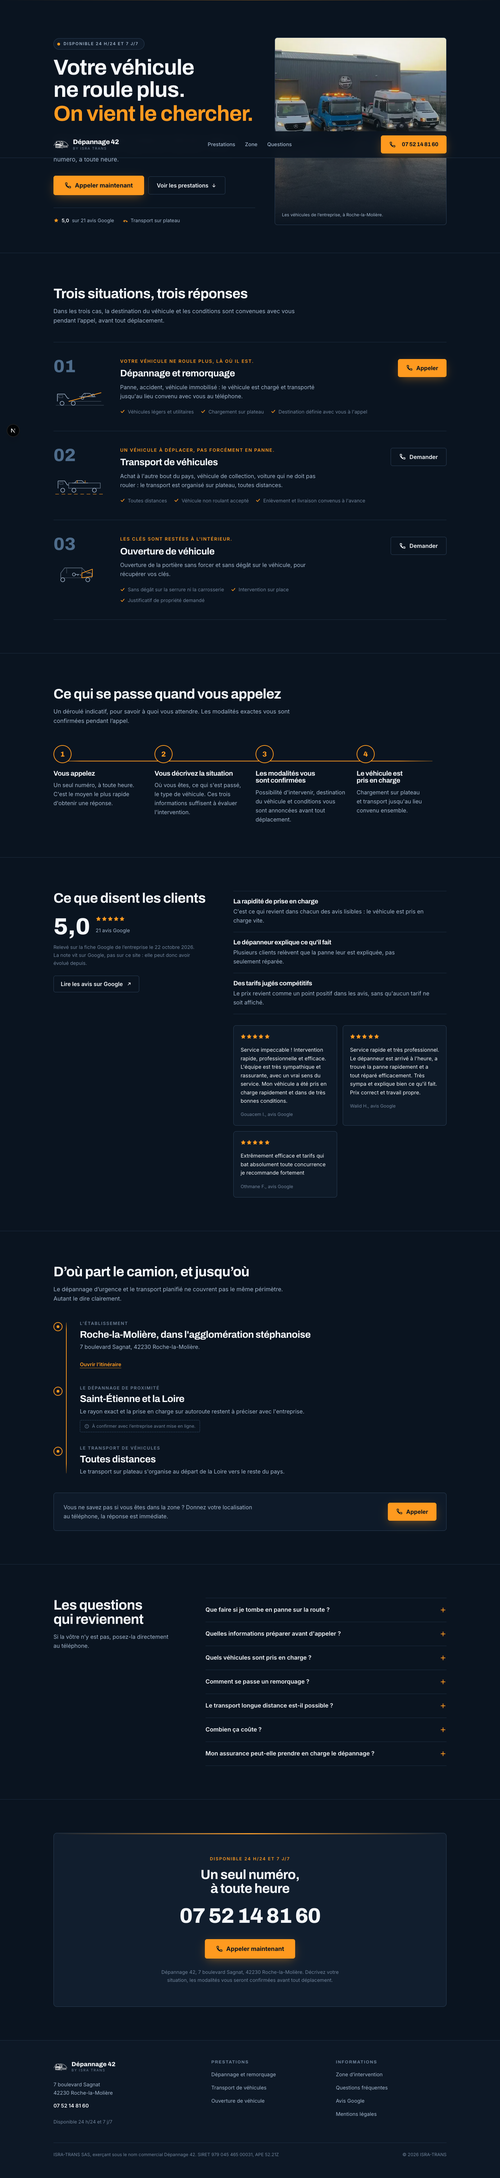
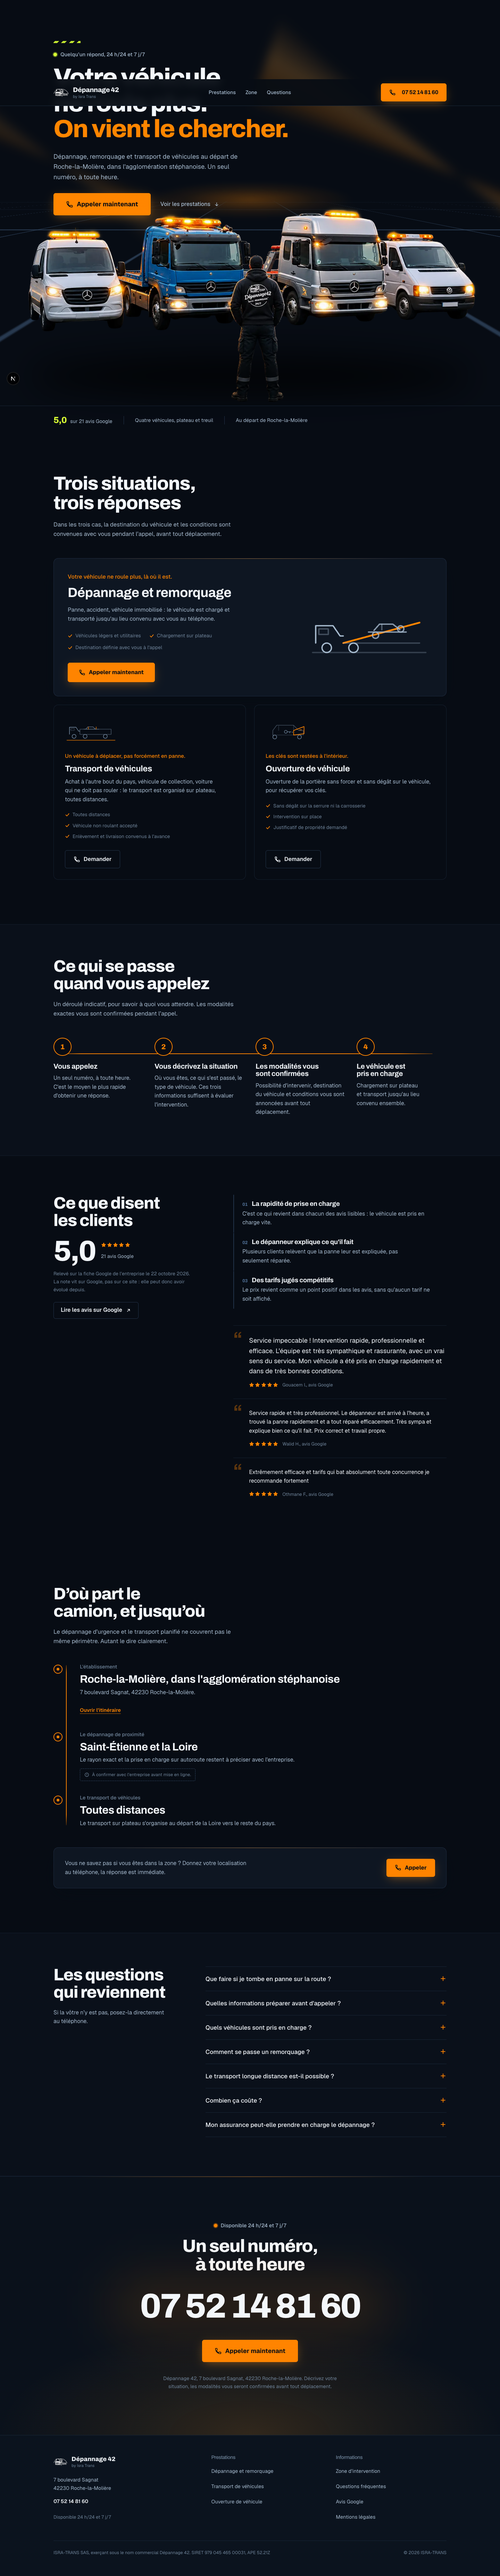
Mise en scène au scroll : jauge, tracés progressifs, marqueurs
- Jauge de progression en haut de page, dessinée comme un marquage routier
  en jaune haute visibilité, pilotée sur requestAnimationFrame
- Les illustrations des prestations se tracent trait par trait à l'entrée
  dans l'écran. Chaque tracé mesure sa propre longueur en JavaScript, une
  valeur en dur se désynchroniserait au premier redessin
- Marqueur rayé en tête de chaque section : le fil conducteur graphique du
  site, cinq pixels plutôt qu'un bandeau coloré
- Le principe d'inversion du risque s'applique aussi aux tracés : dessin
  complet par défaut, effacé seulement si le JavaScript peut le retracer
- Mouvement réduit et impression lèvent tous les masquages

Vérifié : jauge 0 -> 0,40 -> 1 au scroll, 32 tracés et 26 blocs révélés,
aucune erreur console, aucun débordement horizontal.

diff --git a/src/components/Revelations.tsx b/src/components/Revelations.tsx
@@ -3,93 +3,134 @@
 import { useEffect } from "react";
 
 /**
- * Révélations au scroll, et tracé de la trajectoire.
+ * Mise en scène au scroll : révélations, tracés, et jauge de progression.
  *
- * PRINCIPE : le risque est inversé. Tout est visible par défaut dans le CSS ;
- * un élément n'est masqué que par l'attribut `data-cache`, posé en JavaScript
- * juste avant d'être observé, et retiré dès qu'il entre à l'écran. Si le
- * JavaScript échoue, si l'observateur ne se déclenche jamais, ou si
- * l'internaute demande un mouvement réduit, rien ne disparaît.
+ * PRINCIPE, valable pour tout ce fichier : le risque est inversé. Tout est
+ * visible par défaut dans le CSS ; un élément n'est masqué que par l'attribut
+ * `data-cache`, posé en JavaScript juste avant d'être observé, et retiré dès
+ * qu'il entre à l'écran. Si le JavaScript échoue, si l'observateur ne se
+ * déclenche jamais, ou si l'internaute demande un mouvement réduit, rien ne
+ * disparaît.
  *
- * Une première version faisait l'inverse : masquer en CSS, révéler avec
- * `ScrollTrigger.batch`. Les 22 blocs de la page sont restés invisibles, y
- * compris ceux déjà présents à l'écran. Une mise en scène capable d'effacer la
- * page n'a pas sa place sur un site dont le seul rôle est de permettre à
- * quelqu'un en panne de passer un appel.
+ * Une première version faisait l'inverse : masquer en CSS, révéler ensuite.
+ * Les 22 blocs de la page sont restés invisibles, y compris ceux déjà
+ * présents à l'écran. Une mise en scène capable d'effacer la page n'a pas sa
+ * place sur un site dont le seul rôle est de permettre à quelqu'un en panne
+ * de passer un appel.
  *
- * Aucune bibliothèque : un observateur d'intersection et des transitions CSS
- * suffisent. GSAP coûtait une septantaine de kilo-octets compressés pour ce
- * seul usage.
+ * Aucune bibliothèque : un observateur d'intersection, un écouteur de scroll
+ * sur rAF, et des transitions CSS. GSAP coûtait une septantaine de kilo-octets
+ * compressés pour ce seul usage.
  */
-/**
- * Au bout de ce délai, tout est révélé quoi qu'il arrive.
- *
- * Le filet ne fait jamais que RENDRE VISIBLE : l'allonger ne présente donc
- * aucun risque, et le raccourcir écrase l'effet. À 2,5 s, seules les deux
- * premières sections avaient le temps d'être révélées au scroll, le reste
- * apparaissait d'un bloc. Six secondes laissent le temps d'une lecture
- * normale tout en garantissant qu'aucun contenu ne reste perdu.
- */
+
+/** Au bout de ce délai, tout est révélé quoi qu'il arrive. Le filet ne fait
+ *  jamais que RENDRE VISIBLE : l'allonger ne présente aucun risque, le
+ *  raccourcir écrase l'effet. */
 const DELAI_SECURITE_MS = 6000;
 
 export function Revelations() {
   useEffect(() => {
     if (!document.documentElement.classList.contains("js-anime")) return;
-    if (!("IntersectionObserver" in window)) return;
 
-    const blocs = Array.from(document.querySelectorAll<HTMLElement>(".revele"));
+    /* ------------------------------------------------------------------
+       1. Jauge de progression : la route parcourue, en haut de page.
+    ------------------------------------------------------------------ */
+    const jauge = document.querySelector<HTMLElement>(".jauge");
+    let enAttente = false;
 
-    // La trajectoire doit connaître sa propre longueur pour être tracée
-    // progressivement. On la mesure ici plutôt que d'inscrire une valeur
-    // approximative dans le CSS.
+    const majProgression = () => {
+      if (enAttente) return;
+      enAttente = true;
+      requestAnimationFrame(() => {
+        enAttente = false;
+        if (!jauge) return;
+        const parcourable =
+          document.documentElement.scrollHeight - window.innerHeight;
+        const p = parcourable > 0 ? window.scrollY / parcourable : 0;
+        jauge.style.setProperty("--progression", String(Math.min(1, p)));
+      });
+    };
+
+    majProgression();
+    window.addEventListener("scroll", majProgression, { passive: true });
+    window.addEventListener("resize", majProgression, { passive: true });
+
+    /* ------------------------------------------------------------------
+       2. Mesure des tracés. Chaque trait doit connaître sa propre longueur
+          pour pouvoir se dessiner ; une valeur en dur se désynchroniserait
+          au premier redessin.
+    ------------------------------------------------------------------ */
+    type Traçable = SVGPathElement | SVGCircleElement | SVGRectElement;
+
     const traces = Array.from(
-      document.querySelectorAll<SVGPathElement>(".trajectoire path"),
-    );
-    traces.forEach((p) => {
-      const longueur = p.getTotalLength();
-      p.style.setProperty("--longueur", String(longueur));
-      p.style.strokeDasharray = String(longueur);
+      document.querySelectorAll<Traçable>(
+        ".trajectoire path, .dessin path, .dessin circle, .dessin rect",
+      ),
+    ).filter((t) => typeof t.getTotalLength === "function");
+
+    traces.forEach((t, i) => {
+      let longueur = 0;
+      try {
+        longueur = t.getTotalLength();
+      } catch {
+        return; // Élément non rendu (display:none) : on le laisse intact.
+      }
+      if (!longueur) return;
+      t.style.setProperty("--longueur", String(longueur));
+      t.style.strokeDasharray = String(longueur);
+      // Décalage par trait : le dessin se construit, il n'apparaît pas d'un bloc.
+      t.style.transitionDelay = `${(i % 14) * 55}ms`;
     });
 
-    const aReveler = [...blocs, ...traces];
+    /* ------------------------------------------------------------------
+       3. Révélations et tracés, pilotés par l'observateur d'intersection.
+    ------------------------------------------------------------------ */
+    const blocs = Array.from(document.querySelectorAll<HTMLElement>(".revele"));
+    const aReveler: Element[] = [...blocs, ...traces];
 
-    /** Filet de sécurité : quoi qu'il arrive, tout est révélé au bout du délai. */
     const toutReveler = () =>
       aReveler.forEach((e) => e.removeAttribute("data-cache"));
     const filet = window.setTimeout(toutReveler, DELAI_SECURITE_MS);
 
-    const observateur = new IntersectionObserver(
-      (entrees) => {
-        entrees.forEach((e) => {
-          if (!e.isIntersecting) return;
-          e.target.removeAttribute("data-cache");
-          observateur.unobserve(e.target);
-        });
-      },
-      { rootMargin: "0px 0px -12% 0px", threshold: 0.01 },
-    );
+    let observateur: IntersectionObserver | undefined;
 
-    aReveler.forEach((element, i) => {
-      const rect = element.getBoundingClientRect();
-      const dejaVisible = rect.top < window.innerHeight * 0.95;
+    if ("IntersectionObserver" in window) {
+      observateur = new IntersectionObserver(
+        (entrees) => {
+          entrees.forEach((e) => {
+            if (!e.isIntersecting) return;
+            e.target.removeAttribute("data-cache");
+            observateur?.unobserve(e.target);
+          });
+        },
+        { rootMargin: "0px 0px -12% 0px", threshold: 0.01 },
+      );
 
-      element.setAttribute("data-cache", "1");
+      aReveler.forEach((element, i) => {
+        const rect = element.getBoundingClientRect();
+        const dejaVisible = rect.top < window.innerHeight * 0.95;
 
-      if (dejaVisible) {
-        // Déjà à l'écran au chargement : on révèle tout de suite, en décalant
-        // légèrement pour que la page se pose au lieu d'apparaître d'un bloc.
-        window.setTimeout(
-          () => element.removeAttribute("data-cache"),
-          60 + i * 70,
-        );
-      } else {
-        observateur.observe(element);
-      }
-    });
+        element.setAttribute("data-cache", "1");
+
+        if (dejaVisible) {
+          window.setTimeout(
+            () => element.removeAttribute("data-cache"),
+            60 + i * 60,
+          );
+        } else {
+          observateur!.observe(element);
+        }
+      });
+    } else {
+      // Sans observateur, on ne masque rien du tout.
+      toutReveler();
+    }
 
     return () => {
       window.clearTimeout(filet);
-      observateur.disconnect();
+      observateur?.disconnect();
+      window.removeEventListener("scroll", majProgression);
+      window.removeEventListener("resize", majProgression);
     };
   }, []);
 

diff --git a/src/app/globals.css b/src/app/globals.css
@@ -445,6 +445,70 @@ html.consent-decide .bandeau-consentement {
 }
 
 /* ==========================================================================
+   JAUGE DE PROGRESSION
+   Une bande de marquage routier en haut de page, qui se remplit à mesure que
+   l'on descend. Thématique plutôt que décorative : c'est la route parcourue.
+   Pilotée par une propriété personnalisée mise à jour au scroll.
+   ========================================================================== */
+
+.jauge {
+  position: fixed;
+  inset: 0 0 auto 0;
+  z-index: 45;
+  height: 3px;
+  pointer-events: none;
+  background: linear-gradient(
+    to right,
+    var(--color-hivis) 0%,
+    var(--color-hivis) calc(var(--progression, 0) * 100%),
+    transparent calc(var(--progression, 0) * 100%)
+  );
+}
+
+/* ==========================================================================
+   DESSINS TRACÉS AU SCROLL
+   Les illustrations des prestations se dessinent quand elles entrent dans
+   l'écran, trait après trait. Chaque tracé calcule sa propre longueur en
+   JavaScript ; sans cela il faudrait inscrire des valeurs magiques dans le
+   CSS, qui se désynchroniseraient au premier redessin.
+
+   Comme partout sur ce site, le risque est inversé : le dessin est complet par
+   défaut, et n'est effacé que si le JavaScript a confirmé qu'il peut le
+   retracer.
+   ========================================================================== */
+
+.dessin path,
+.dessin circle,
+.dessin rect {
+  transition:
+    stroke-dashoffset 1.1s var(--ease-sortie),
+    opacity 0.5s var(--ease-sortie);
+}
+
+.dessin [data-cache] {
+  stroke-dashoffset: var(--longueur, 400);
+  opacity: 0.25;
+}
+
+/* ==========================================================================
+   MARQUEUR DE SECTION
+   Le filet rayé des véhicules d'intervention, repris en tête de chaque
+   section. C'est le fil conducteur graphique du site : trois pixels suffisent
+   à signer une page, là où un bandeau coloré la surchargerait.
+   ========================================================================== */
+
+.marqueur {
+  display: block;
+  height: 5px;
+  width: 64px;
+  background-image: repeating-linear-gradient(
+    -45deg,
+    var(--color-hivis) 0 7px,
+    transparent 7px 14px
+  );
+}
+
+/* ==========================================================================
    TYPOGRAPHIE CINÉTIQUE
    Les mots du titre montent un par un depuis sous la ligne. L'effet est porté
    par un délai inline sur chaque mot, donc il reste entièrement en CSS.
@@ -596,8 +660,22 @@ html.consent-decide .bandeau-consentement {
   .hero-ligne,
   .hero-apparition,
   .hero-panneau,
-  .hero-balayage {
+  .hero-balayage,
+  .route,
+  .gyrophare,
+  .mot {
     animation: none !important;
+  }
+
+  .mot,
+  .dessin [data-cache] {
+    transform: none !important;
+    opacity: 1 !important;
+    stroke-dashoffset: 0 !important;
+  }
+
+  .jauge {
+    display: none !important;
   }
 
   /* La barre d'appel collante et le bandeau de consentement n'ont aucun sens
@@ -637,6 +715,11 @@ html.consent-decide .bandeau-consentement {
   .gyrophare,
   .mot {
     animation: none !important;
+  }
+
+  .dessin [data-cache] {
+    stroke-dashoffset: 0 !important;
+    opacity: 1 !important;
   }
 
   .mot {

diff --git a/src/components/Services.tsx b/src/components/Services.tsx
@@ -36,7 +36,7 @@ const traits = {
 const illustrations = {
   /* Le plateau basculé, la voiture en panne qui monte dessus par le treuil. */
   depannage: (
-    <svg aria-hidden="true" viewBox="0 0 160 84" {...traits}>
+    <svg aria-hidden="true" viewBox="0 0 160 84" className="dessin" {...traits}>
       {/* Camion : cabine et châssis */}
       <path d="M12 62V40h22l9 13h4" />
       <path d="M12 40h22" opacity=".45" />
@@ -59,7 +59,7 @@ const illustrations = {
 
   /* Le transport planifié : le véhicule arrimé, et la distance parcourue. */
   transport: (
-    <svg aria-hidden="true" viewBox="0 0 160 84" {...traits}>
+    <svg aria-hidden="true" viewBox="0 0 160 84" className="dessin" {...traits}>
       {/* Camion porte-voiture, vu de profil */}
       <path d="M14 56V34h20l8 12h4" />
       <path d="M18 38h11v6H18z" opacity=".35" />
@@ -84,7 +84,7 @@ const illustrations = {
 
   /* L'ouverture : la portière entrouverte et les clés restées sur le siège. */
   ouverture: (
-    <svg aria-hidden="true" viewBox="0 0 160 84" {...traits}>
+    <svg aria-hidden="true" viewBox="0 0 160 84" className="dessin" {...traits}>
       {/* Silhouette du véhicule, vue de trois quarts */}
       <path d="M22 58V44l12-16h52l16 16h14v14" opacity=".55" />
       <path d="M22 58h94" opacity=".3" />
@@ -130,6 +130,7 @@ export function Services() {
     >
       <div className="relative z-10 mx-auto max-w-[1180px] px-4 md:px-6">
         <div className="revele mesure-large">
+          <span aria-hidden="true" className="marqueur mb-7" />
           <h2 className="text-[2.3rem] sm:text-[3rem] lg:text-[3.4rem]">
             Trois situations,
             <br className="hidden sm:block" /> trois réponses

diff --git a/src/components/Parcours.tsx b/src/components/Parcours.tsx
@@ -20,6 +20,7 @@ export function Parcours() {
     <section className="relative overflow-hidden border-y border-trait/40 bg-acier/25 pt-20 pb-24 md:pt-24 md:pb-28">
       <div className="mx-auto max-w-[1180px] px-4 md:px-6">
         <div className="revele mesure-large">
+          <span aria-hidden="true" className="marqueur mb-7" />
           <h2 className="text-[2.3rem] sm:text-[3rem]">
             Ce qui se passe quand vous appelez
           </h2>

diff --git a/src/components/Faq.tsx b/src/components/Faq.tsx
@@ -27,6 +27,7 @@ export function Faq() {
           {/* Solidaire du scroll, comme la note dans la section des avis :
               sinon la colonne laisse un grand vide pendant la lecture. */}
           <div className="revele lg:sticky lg:top-28 lg:self-start">
+            <span aria-hidden="true" className="marqueur mb-7" />
             <h2 className="text-[2.3rem] sm:text-[3rem]">
               Les questions qui reviennent
             </h2>

diff --git a/src/app/page.tsx b/src/app/page.tsx
@@ -31,6 +31,8 @@ export default function Accueil() {
       {/* Grain : calque fixe, non interactif, qui donne une matière au fond.
           Sans lui, un aplat sombre reste un aplat sombre. */}
       <div className="grain" aria-hidden="true" />
+      {/* Jauge de progression : le marquage de la route parcourue. */}
+      <div className="jauge" aria-hidden="true" />
       <Entete />
       <main>
         <Hero />

diff --git a/src/components/Avis.tsx b/src/components/Avis.tsx
@@ -46,6 +46,7 @@ export function Avis() {
               colonne de gauche laisse plusieurs centaines de pixels vides sur
               grand écran. */}
           <div className="revele lg:sticky lg:top-28 lg:self-start">
+            <span aria-hidden="true" className="marqueur mb-7" />
             <h2 className="text-[2.3rem] sm:text-[3rem]">
               Ce que disent les clients
             </h2>

diff --git a/src/components/Zone.tsx b/src/components/Zone.tsx
@@ -30,6 +30,7 @@ export function Zone() {
     >
       <div className="mx-auto max-w-[1180px] px-4 md:px-6">
         <div className="revele mesure-large">
+          <span aria-hidden="true" className="marqueur mb-7" />
           <h2 className="text-[2.3rem] sm:text-[3rem]">
             D&rsquo;où part le camion, et jusqu&rsquo;où
           </h2>
